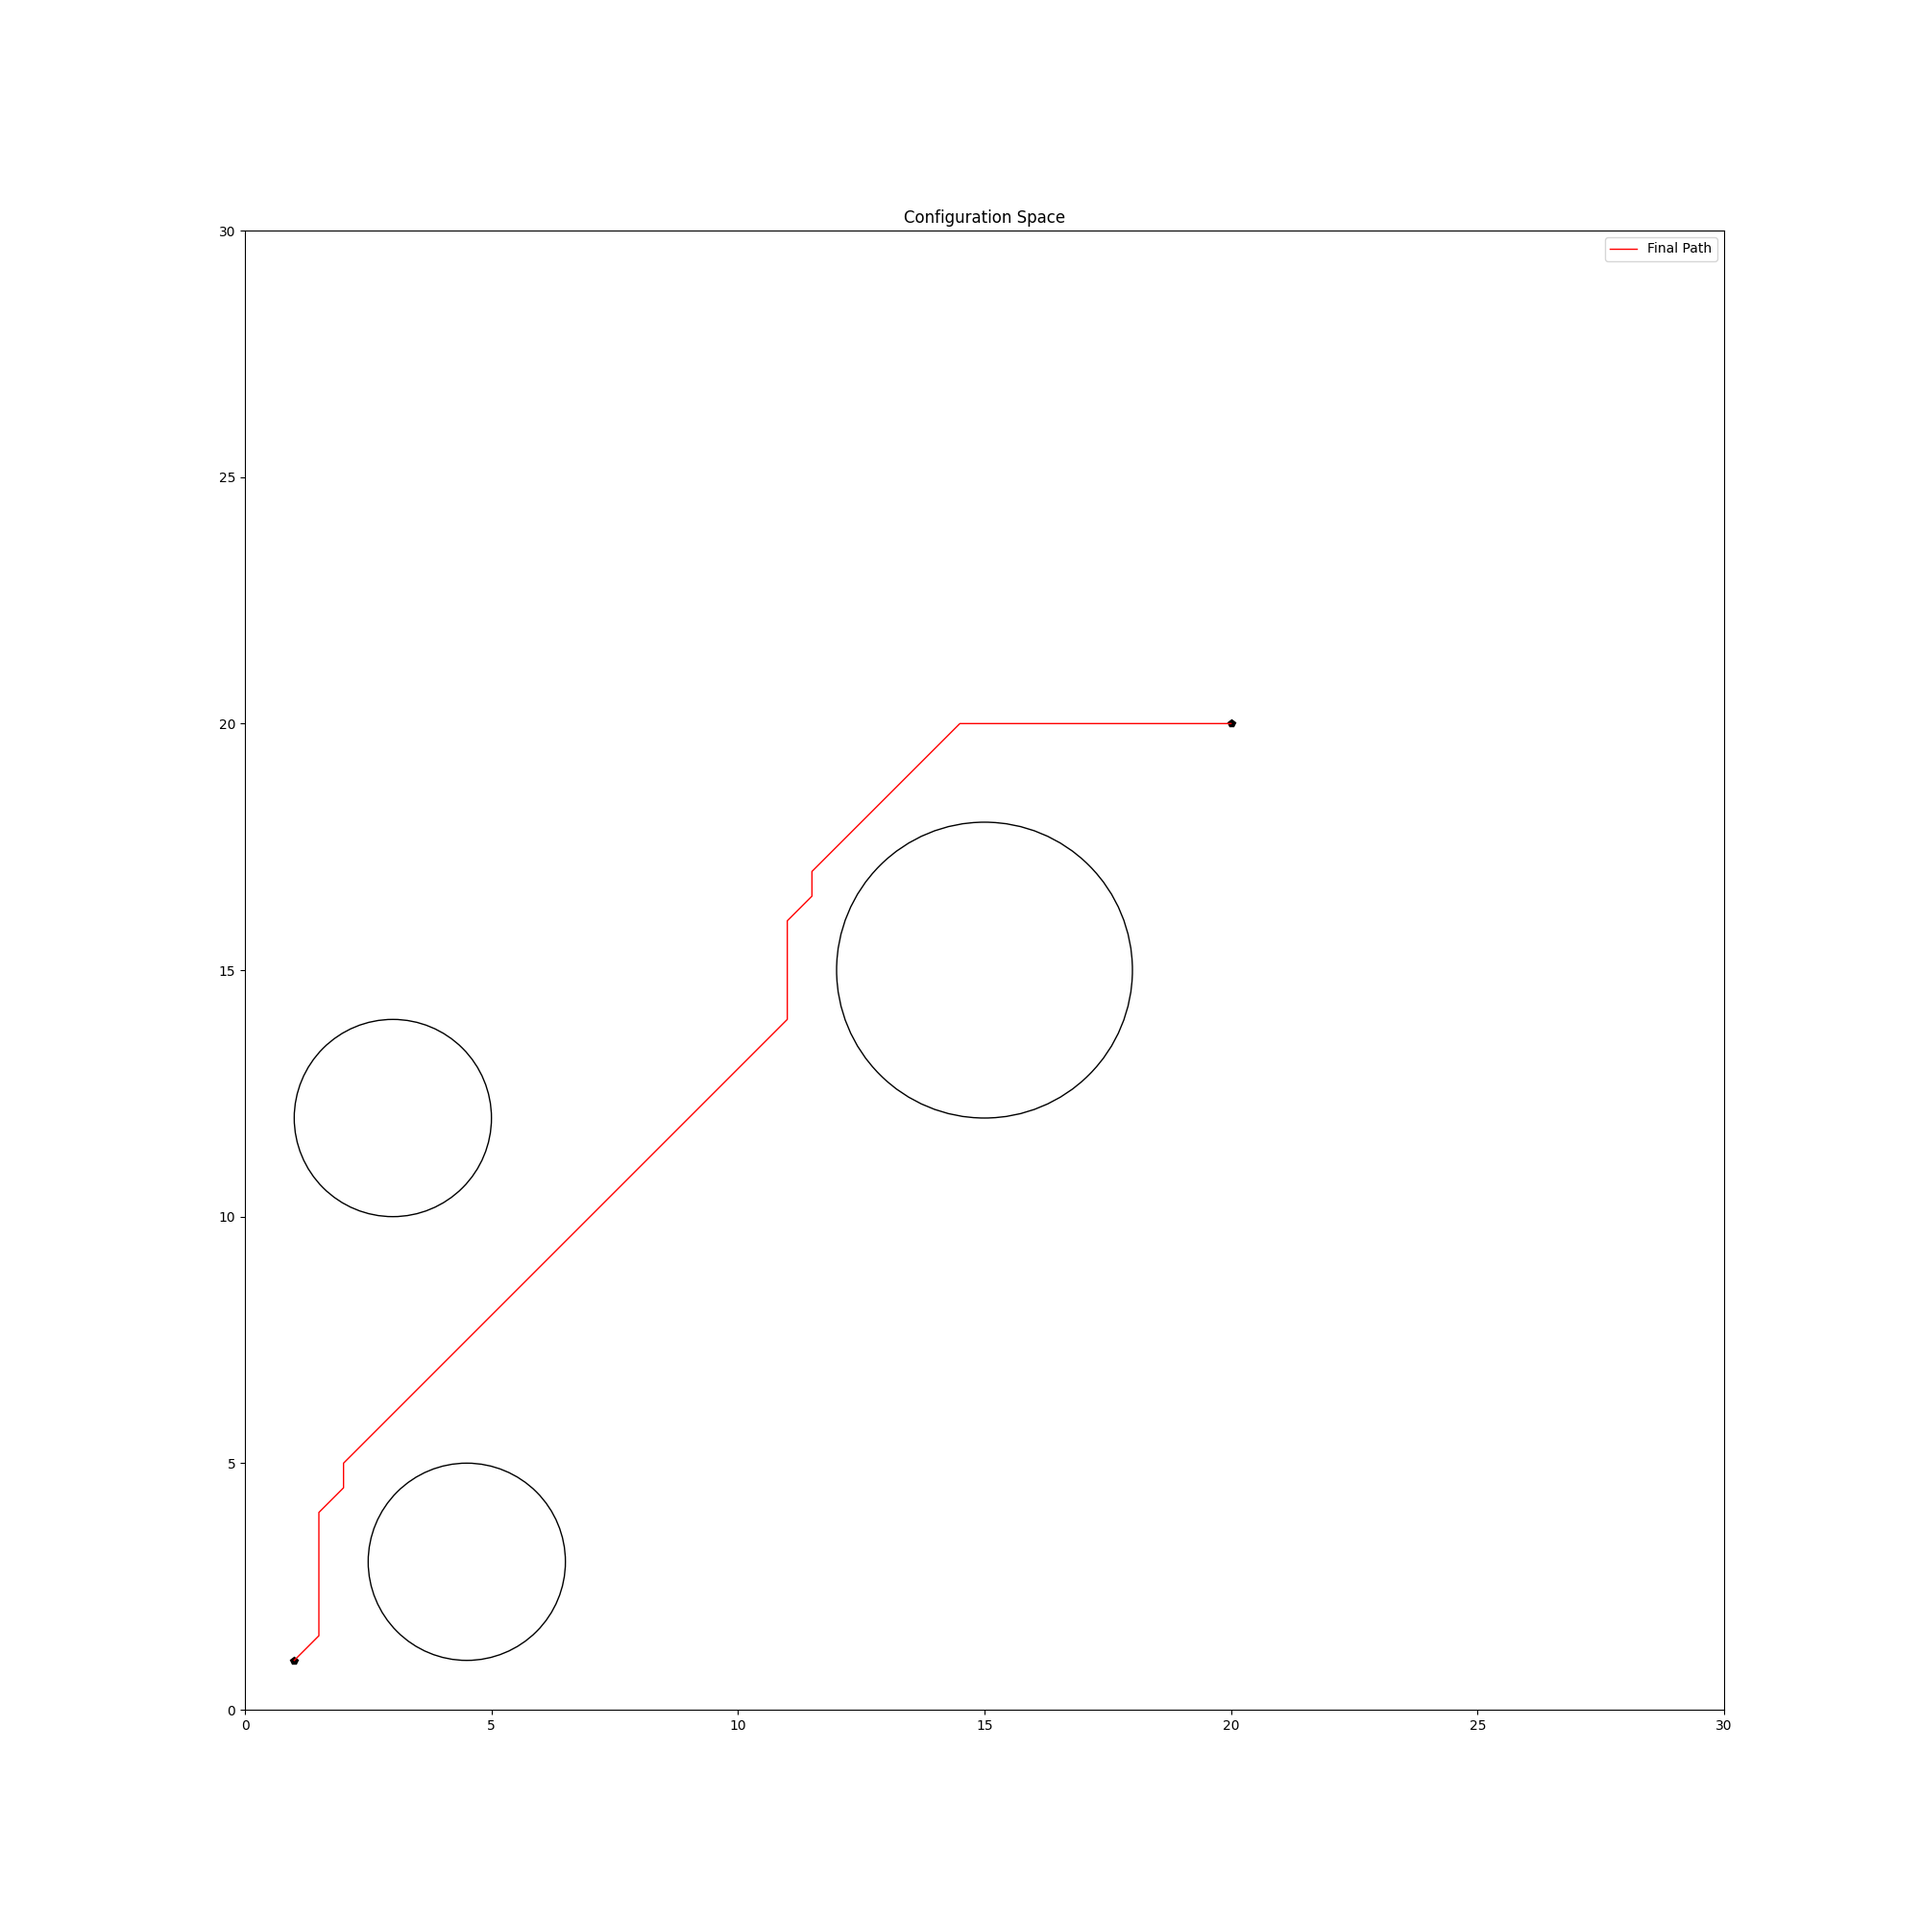
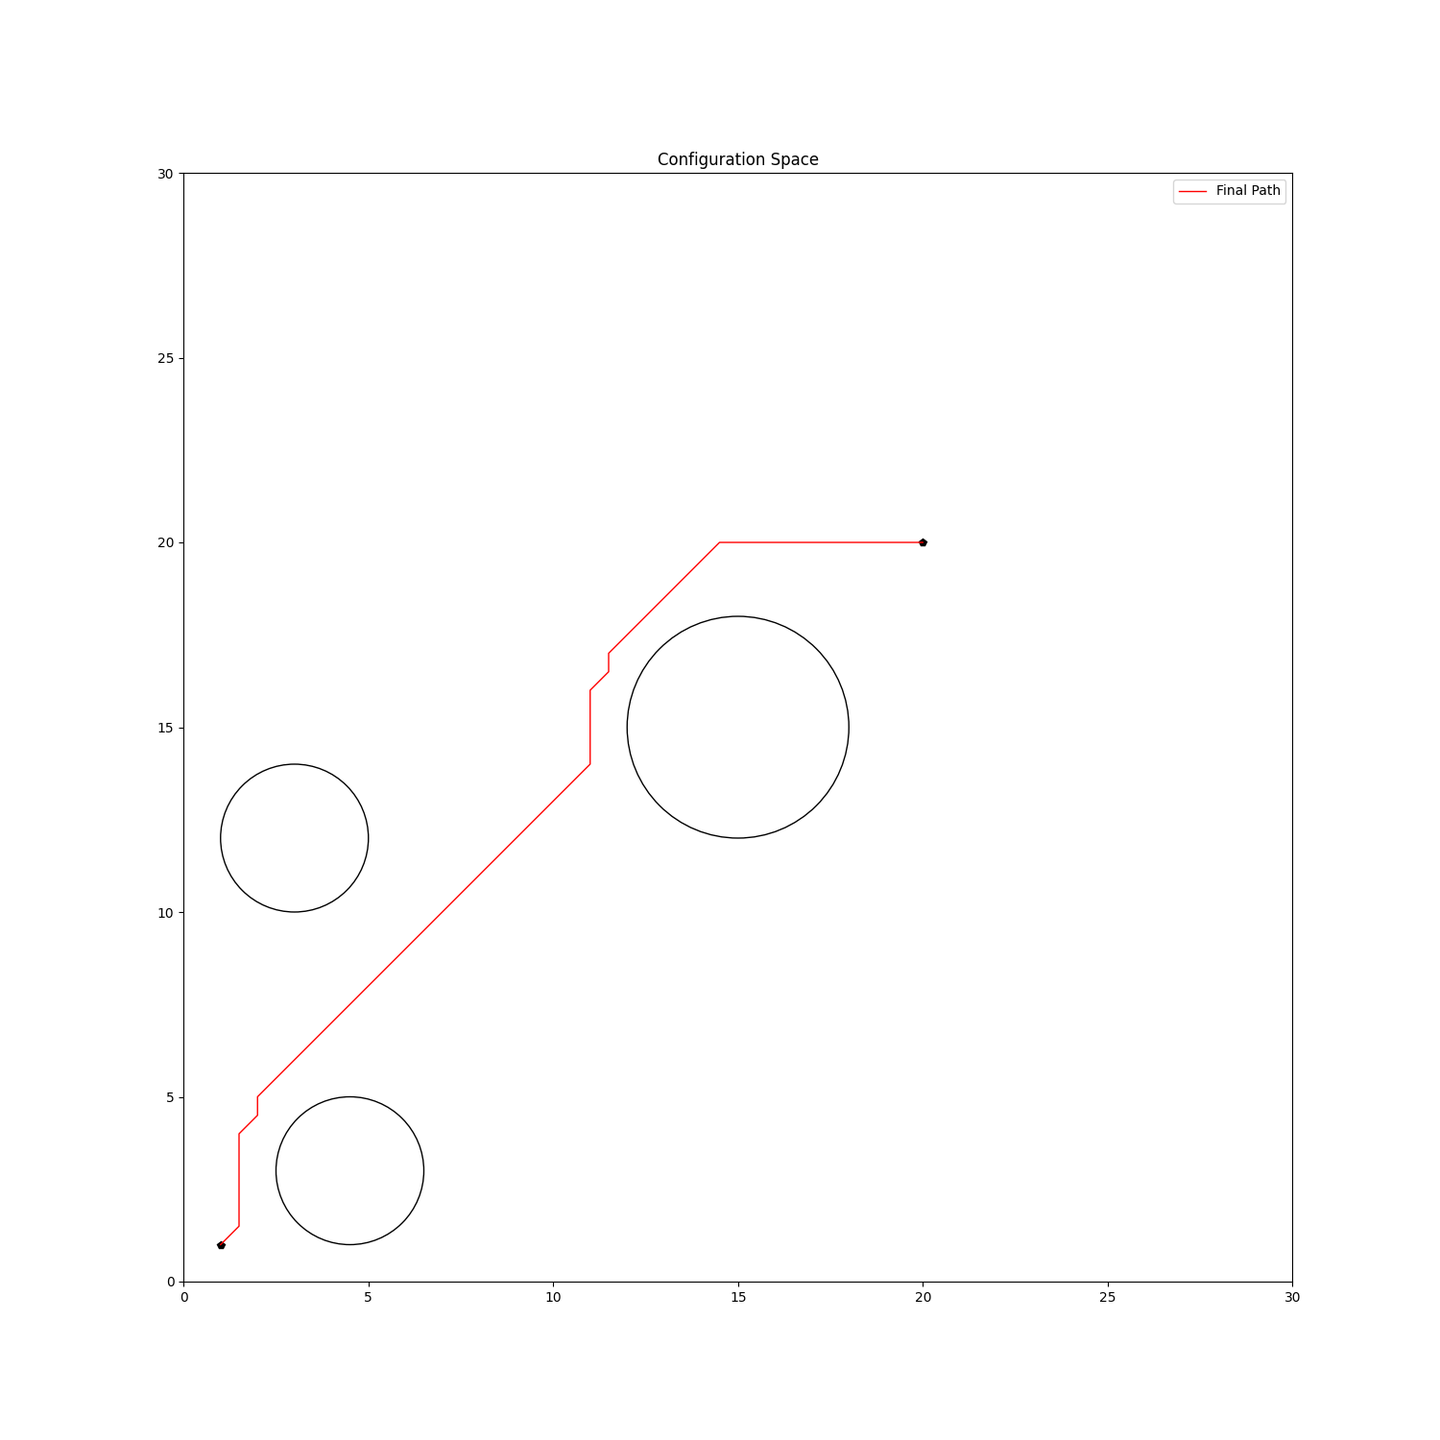
updates

Changed region(s): [[0.46, 0.092, 0.552, 0.1227], [0.828, 0.1227, 0.8893, 0.1533]]

diff --git a/bi_rrt.py b/bi_rrt.py
@@ -70,7 +70,7 @@ def merge(tree1, tree2):
 	return path
 
 def main(max_iter):
-	global obslist	
+	global obslist
 	obslist = [(4.5, 3, 2), (3, 12, 2), (15, 15, 3)]  #[(x, y, radius)]
 	start_node = Node(1,1)
 	start_node.path_so_far.append(start_node)
@@ -88,7 +88,7 @@ def main(max_iter):
 	"""
 	if path:
 		figure, axes = plt.subplots()
-		plt.rcParams["figure.figsize"] = (20,20)
+		plt.rcParams["figure.figsize"] = (15,15)
 
 		# plotting the obstacles
 		for obs in obslist:

diff --git a/pf.py b/pf.py
@@ -106,7 +106,7 @@ def main(grid_size, func, ETA, K):
 	Plotting
 	"""
 	figure, axes = plt.subplots()
-	plt.rcParams["figure.figsize"] = (20,20)
+	plt.rcParams["figure.figsize"] = (15,15)
 
 	# plotting the obstacles
 	for obs in obslist:
@@ -145,7 +145,7 @@ if __name__ == '__main__':
 						help='Repuslive Potential Gain; Default=5000', default=5000)
 	args = parser.parse_args()
 
-	
+
 	grid_size = args.grid
 	func = args.function
 	K = args.attractive

diff --git a/app.py b/app.py
@@ -14,6 +14,6 @@ st.header("APF")
 grid_size = st.slider("Grid size", 0.0, 5.0, 0.5)
 func = st.radio("Attractive Potential Function", ['Paraboloid', 'Conical'])
 K = st.slider("Attractive Potential Gain", 0.1, 10.0, 1.0)
-ETA = st.slider("Grid size", 500, 10000, 5000)
+ETA = st.slider("Repulsive Potential Gain", 500, 10000, 5000)
 fig_apf = pf.main(grid_size, func, ETA, K)
 st.pyplot(fig_apf)
